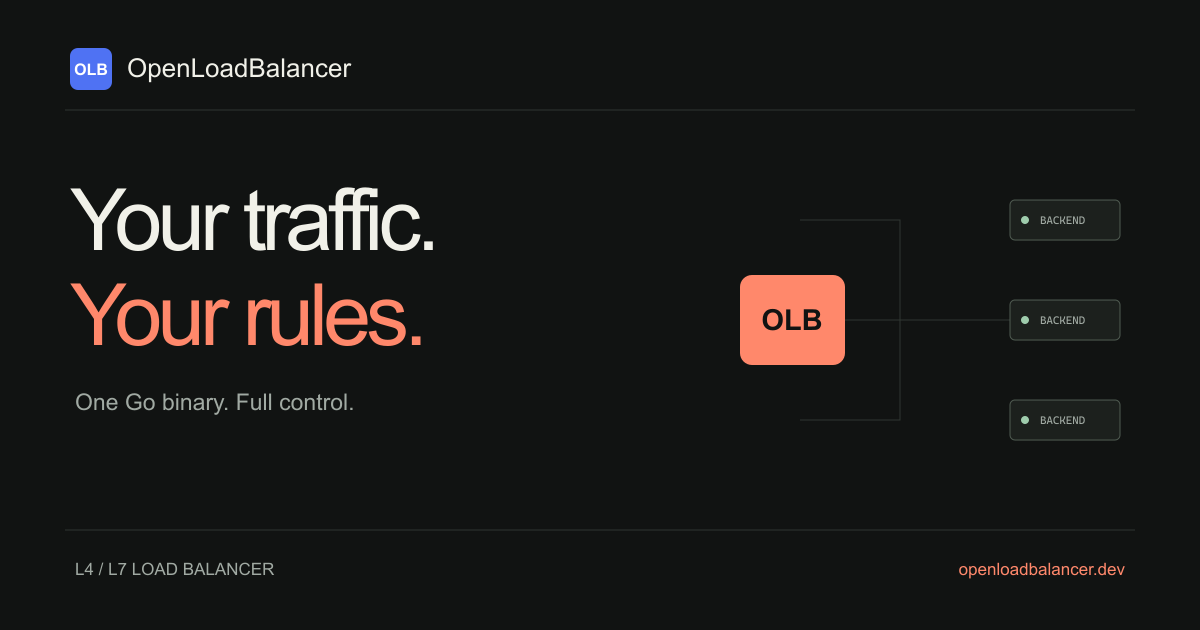
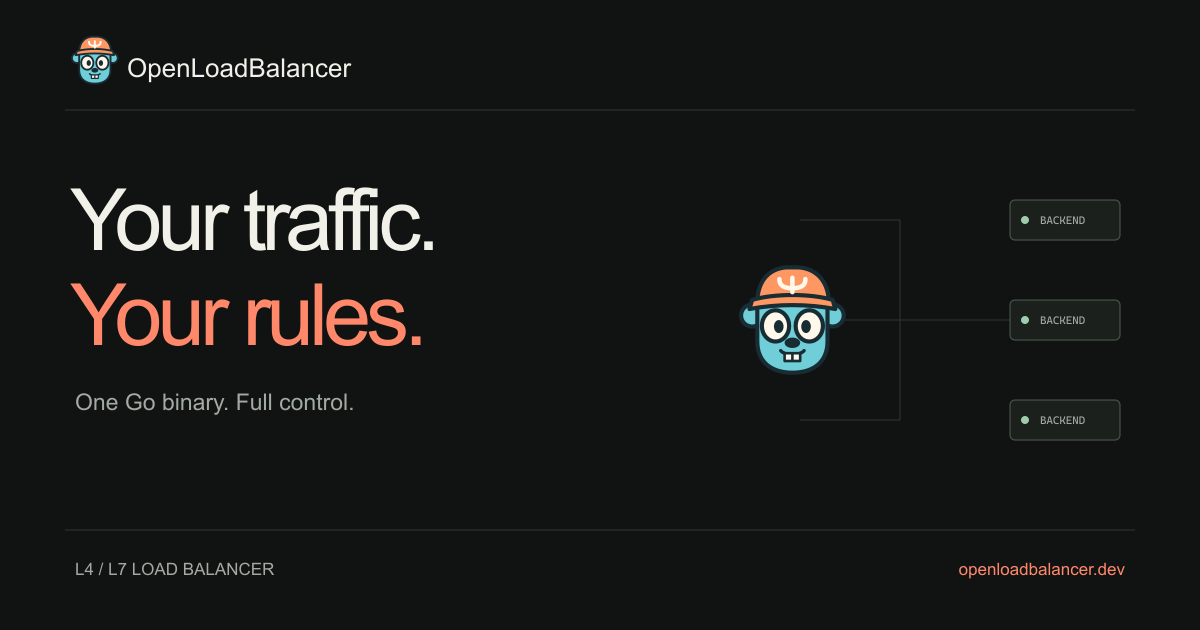
Create original traffic-controller gopher identity and brand assets

Changed region(s): [[0.6167, 0.4222, 0.7092, 0.6032], [0.0308, 0.0603, 0.0925, 0.1508]]

diff --git a/src/pages/brand.tsx b/src/pages/brand.tsx
@@ -1,4 +1,4 @@
-import { Site, repo } from "@/components/site";
+import { Site } from "@/components/site";
 export default function Brand() {
   return (
     <Site
@@ -10,12 +10,13 @@ export default function Brand() {
         <section className="doc-hero">
           <div className="eyebrow accent">OPENLOADBALANCER / BRAND</div>
           <h1>
-            A familiar mark.
-            <br />A clearer canvas.
+            Meet your
+            <br />
+            traffic controller.
           </h1>
           <p>
-            The original blue-to-indigo OLB mark, preserved in crisp SVG. Ready
-            for light and dark backgrounds.
+            A friendly face for serious infrastructure. Our traffic-controller
+            gopher brings an open-source spirit to every route.
           </p>
         </section>
         <div className="docs-layout">
@@ -24,20 +25,37 @@ export default function Brand() {
             <a href="/brand/mark.svg" download>
               Download SVG mark
             </a>
+            <a href="/brand/mark.png" download>
+              Download transparent PNG
+            </a>
+            <a href="/brand/mark-mono-dark.svg" download>
+              Download dark mono SVG
+            </a>
+            <a href="/brand/mark-mono-light.svg" download>
+              Download light mono SVG
+            </a>
           </aside>
           <article className="docs-content">
-            <h2>Made to stay recognizable.</h2>
+            <h2>A clear path. A character of its own.</h2>
             <p>
-              The rounded square, gradient, and OLB letter proportions follow
-              the upstream website favicon. The wordmarks extend the original
-              identity for different backgrounds.
+              The turquoise gopher and orange hard hat celebrate the project's
+              traffic-controller mascot. A three-way route on the helmet turns
+              one incoming connection into a balanced flow. Clean shapes and a
+              strong outline keep the mark recognizable at small sizes.
             </p>
+            <img
+              className="brand-reference"
+              src="/brand/preview.png"
+              width="1200"
+              height="640"
+              alt="Original traffic-controller gopher logo on dark and light backgrounds, with small-size examples"
+            />
             <div className="brand-grid">
               <div className="brand-tile">
                 <img
                   src="/brand/wordmark-dark.svg"
-                  width="360"
-                  height="64"
+                  width="420"
+                  height="80"
                   alt="OpenLoadBalancer wordmark on dark"
                 />
                 <a href="/brand/wordmark-dark.svg" download>
@@ -47,8 +65,8 @@ export default function Brand() {
               <div className="brand-tile">
                 <img
                   src="/brand/wordmark-light.svg"
-                  width="360"
-                  height="64"
+                  width="420"
+                  height="80"
                   alt="OpenLoadBalancer wordmark on light"
                 />
                 <a href="/brand/wordmark-light.svg" download>
@@ -58,13 +76,12 @@ export default function Brand() {
             </div>
             <h2>Source & attribution</h2>
             <p>
-              The OLB symbol is sourced from{" "}
-              <a href={`${repo}/blob/main/website-new/public/favicon.svg`}>
-                the OpenLoadBalancer product repository
-              </a>
-              . Geist is designed by Vercel and distributed under the SIL Open
-              Font License. The Oxog footer mark and drawing animation are
-              adapted from{" "}
+              This logo is original SVG artwork created for OpenLoadBalancer,
+              inspired by the project's illustrated traffic-controller gopher.
+              Its geometry is shared across the favicon, transparent PNG,
+              monochrome marks, and wordmarks. Geist is designed by Vercel and
+              distributed under the SIL Open Font License. The Oxog footer mark
+              and drawing animation are adapted from{" "}
               <a href="https://github.com/cobaltdb/cobaltdb-site">
                 the CobaltDB site
               </a>{" "}

diff --git a/src/components/site.tsx b/src/components/site.tsx
@@ -274,6 +274,7 @@ export function Site({
         <meta name="theme-color" content="#111312" />
         <link rel="canonical" href={`https://openloadbalancer.dev${path}`} />
         <link rel="icon" href="/favicon.svg" type="image/svg+xml" />
+        <link rel="apple-touch-icon" href="/apple-touch-icon.png" />
         <meta property="og:title" content={title} />
         <meta property="og:description" content={description} />
         <meta

diff --git a/src/styles/globals.css b/src/styles/globals.css
@@ -2308,3 +2308,11 @@ pre {
   margin-top: 14px;
   max-width: 500px;
 }
+.brand-reference {
+  display: block;
+  width: 100%;
+  height: auto;
+  border: 1px solid var(--border);
+  border-radius: 8px;
+  margin-block: 30px;
+}

diff --git a/docs/RESEARCH.md b/docs/RESEARCH.md
@@ -22,11 +22,11 @@ All seven reference websites were inspected through their HTML and stylesheets, 
 | https://anubis.watch    | Editorial contrast, distinctive typography, clear process narrative. Live TLS could not be validated during reference research. |
 | https://cachestorm.com  | Engine illustration, restrained technical palette, configuration-led quick start and responsive layout.                         |
 
-The new site uses its own graphite/cream and coral visual direction with original request-flow and pipeline SVGs. It preserves the original OLB identity rather than copying another product's illustration. Shared container width is 1720px, with centrally managed fluid gutters and section spacing. Mobile architecture uses a vertical SVG instead of clipping the desktop diagram.
+The new site uses its own graphite/cream and coral visual direction with original request-flow and pipeline SVGs. Its original traffic-controller gopher identity is inspired by the project illustration supplied by the owner. Shared container width is 1720px, with centrally managed fluid gutters and section spacing. Mobile architecture uses a vertical SVG instead of clipping the desktop diagram.
 
 ## Assets
 
-- `public/brand/mark.svg` and `public/favicon.svg`: original [OLB favicon](https://github.com/openloadbalancer/olb/blob/dbde63563bc2734288cb671af5ed17d56b57fbd3/website-new/public/favicon.svg), also checked against the original live site's favicon. Original 32×32 geometry, 6px corner radius, blue→indigo gradient, white OLB lettering preserved.
+- `public/brand/mark.svg` and `public/favicon.svg`: original traffic-controller gopher SVG drawn for the site at the owner's request. Inspired by the turquoise gopher and orange hard hat in the supplied project illustration; no raster tracing or embedded bitmap. The helmet carries a three-way traffic-routing symbol. Geometry is defined in `scripts/brand-geometry.mjs`, with color, dark/light monochrome, transparent PNG, and Apple touch icon exports. This replaces the temporary OLB-letter favicon used in the first site release.
 - Light/dark wordmarks and `public/og.svg` / `public/og.png`: created for this site. Regeneration source: `scripts/create-assets.mjs`.
 - Traffic and architecture diagrams: original SVG in `src/components/traffic.tsx`. Reduced-motion support disables animated flow.
 - Oxog mark: exact four paths and 200×130 viewBox from [CobaltDB's Oxog component](https://github.com/cobaltdb/cobaltdb-site/blob/0b25719fef274c577ea4e3662a7e63dac2199c9c/src/components/oxog-mark.tsx). Preserves the original 1.6s drawing curve and 0/.25/.5/.9s stagger. Adapted colors match both site themes; mark links to https://oxog.net.

diff --git a/README.md b/README.md
@@ -34,7 +34,7 @@ The preview serves `out/` at http://127.0.0.1:4173. Tests cover three routes at 
 - Native CSS animations, real SVG request diagrams, and React state for the illustrative traffic explorer. It does not connect to a running load balancer or represent measured traffic.
 - Light/dark/system preference is applied synchronously in the document head before paint, persists in localStorage, and follows OS and cross-tab changes.
 - Local Geist font, with the original SIL OFL license. No runtime font or third-party CDN requests.
-- The original upstream OLB SVG mark, light/dark wordmarks, PNG Open Graph artwork, sitemap, robots, custom 404, and brand downloads are included.
+- An original traffic-controller gopher SVG mark, monochrome variants, light/dark wordmarks, PNG Open Graph artwork, sitemap, robots, custom 404, and brand downloads are included.
 
 ## Deploy
 
@@ -57,4 +57,4 @@ AAAA  2606:50c0:8003::153
 
 The website contains a getting-started guide and links to authoritative upstream documentation. Product claims and installers are sourced from a pinned product revision; see [research and provenance](docs/RESEARCH.md). Installer scripts are served byte-for-byte from that revision rather than rewritten.
 
-`scripts/create-assets.mjs` regenerates the checked-in SVG wordmarks and the 1200×630 Open Graph PNG using pinned Sharp. Run it with `node scripts/create-assets.mjs`, then rebuild.
+`scripts/create-assets.mjs` regenerates the original SVG logo, monochrome variants, transparent PNG and Apple icon, wordmarks, preview board, and the 1200×630 Open Graph PNG using pinned Sharp. Run it with `node scripts/create-assets.mjs`, then rebuild.
